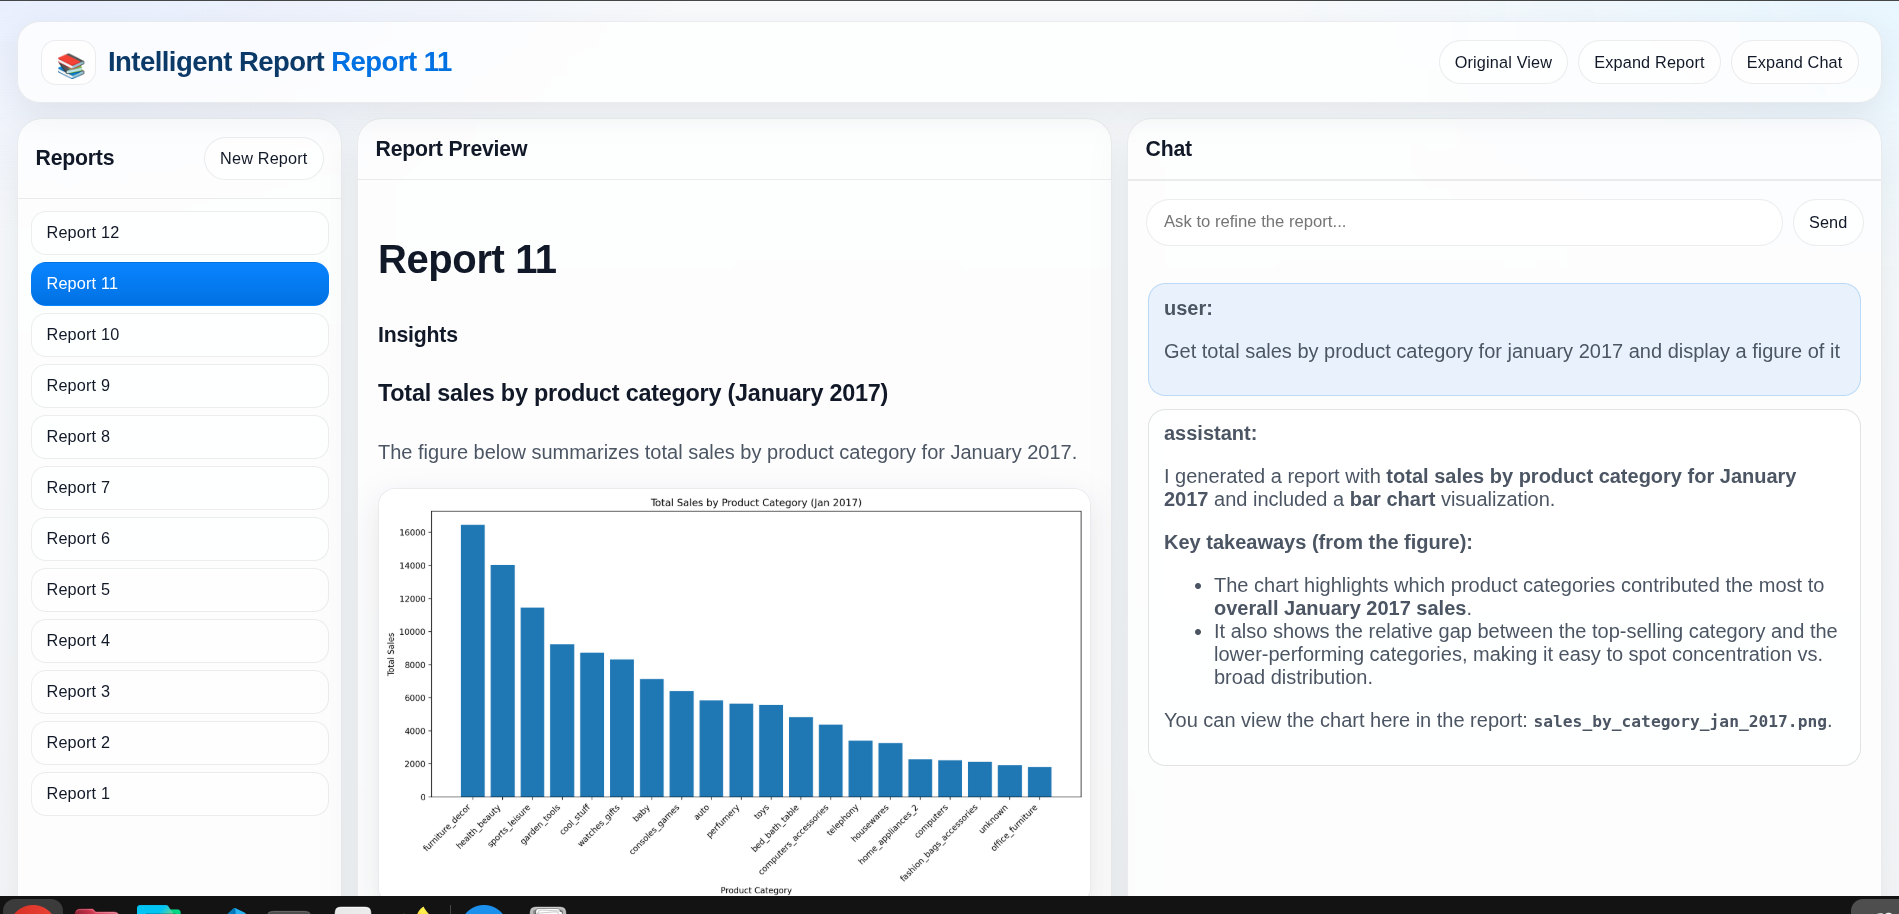
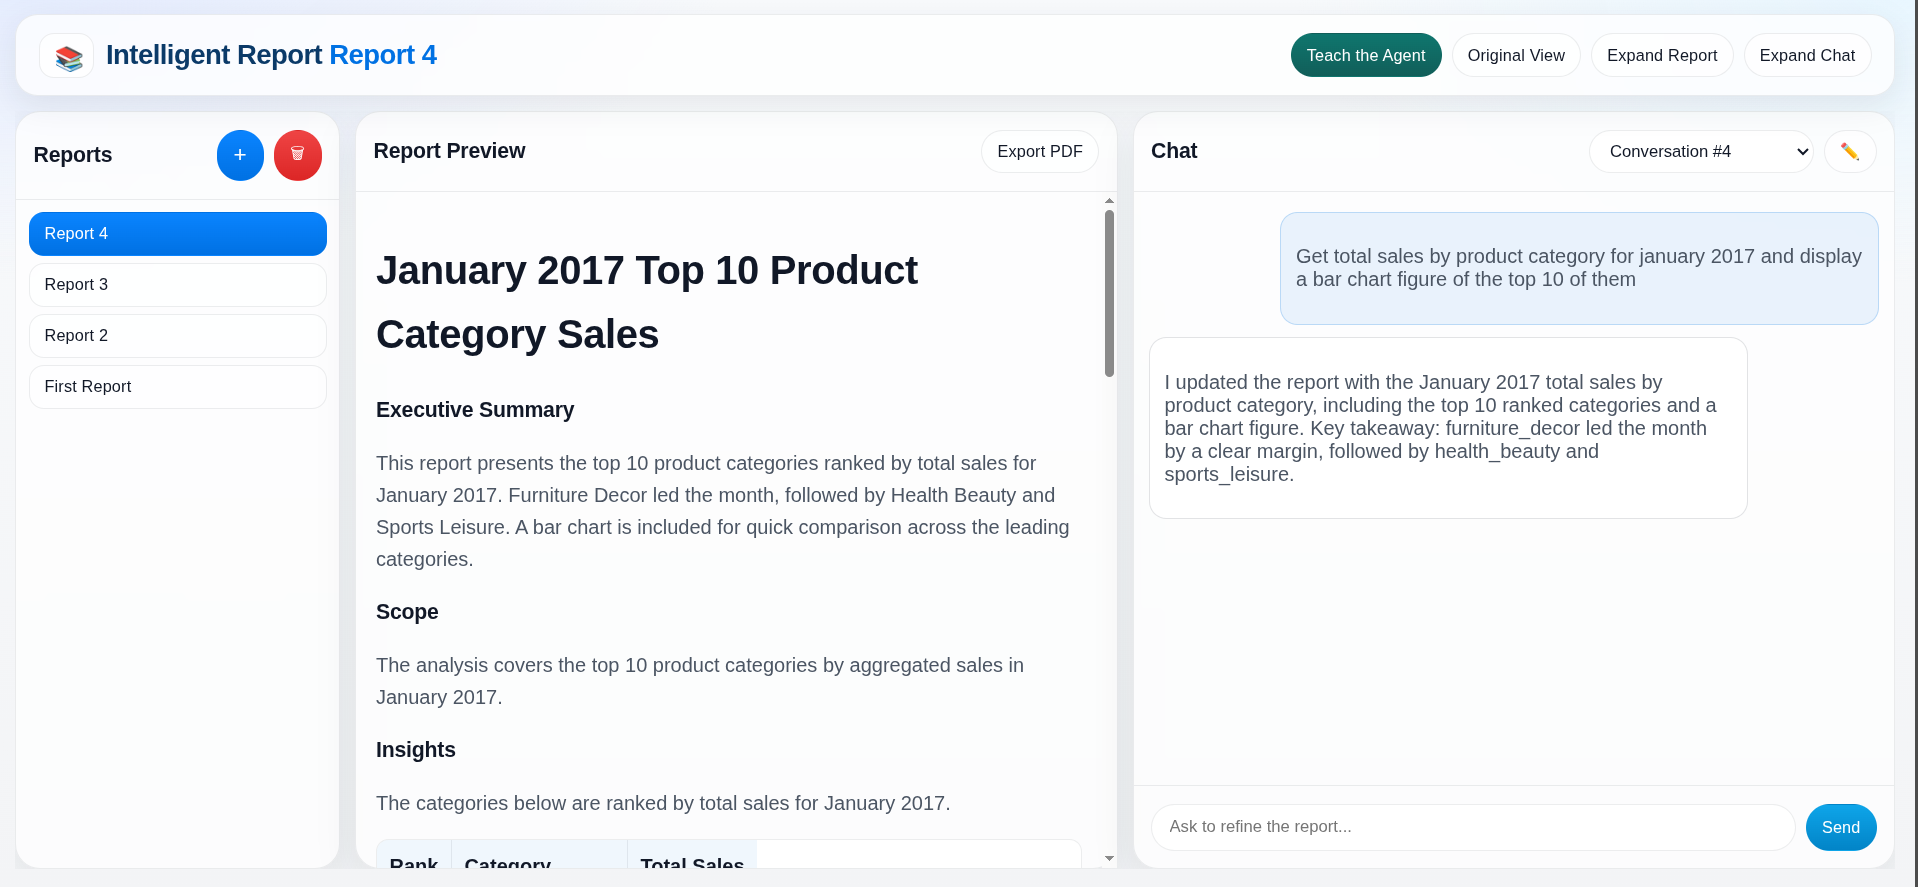
update docs

diff --git a/docs/agents.md b/docs/agents.md
@@ -1,0 +1,102 @@
+# Agents Architecture
+
+This document explains the current agent architecture used by ReportingAgent.
+
+## Overview
+
+The report chat flow is orchestrated by a backend `main_agent` that coordinates:
+
+- a report-editing tool agent (`report_agent`)
+- a worker execution service (`POST /invoke`) that runs `code_executor_agent`
+
+Skills are managed by dedicated backend agents for teaching and publishing.
+
+## Agent Roles
+
+### `main_agent` (backend)
+
+- Built in `backend/app/agents/main_agent.py`
+- Model: `gpt-5.4-mini`
+- Purpose: orchestrate report responses from chat input
+- Tools:
+  - `report_agent`: edits `report.md` and workspace files safely
+  - `call_artifact_worker(content)`: calls worker `POST /invoke` with `{query, report_id}`
+
+### `report_agent` (backend tool-agent)
+
+- Built in `backend/app/agents/report_agent.py`
+- Model: `gpt-5.4-mini`
+- Purpose: deterministic report/workspace editing for one report workspace
+- Key tools:
+  - `read_report`, `update_report`, `update_report_section`
+  - `list_files`, `read_file`, `replace_in_file`
+  - `build_report_file_url` (canonical `/reports/{id}/files/<path>` links)
+- Safety:
+  - all file paths resolve inside `report_<id>` workspace
+  - binary file reads are blocked (images can be uploaded for reasoning)
+  - image markdown paths are normalized to backend file URLs
+
+### `code_executor_agent` (worker)
+
+- Built in `worker/app/agents/code_executor_agent.py`
+- Model: `gpt-5.4-mini`
+- Triggered by worker `POST /invoke`
+- Purpose: inspect DB/files, write and run Python, generate report artifacts
+- Key tools:
+  - workspace file ops: `write_file`, `read_file`, `replace_in_file`, `list_files`
+  - execution: `run_python`
+  - PostgreSQL inspection: `get_database_schema`, `get_unique_values`, `get_column_stats`, `preview_table`
+  - shared skills: `search_agent_skills`, `read_agent_skill`
+- Output contract (`CodeAgentResult`):
+  - `status = needs_more_info` with clarification question + missing info list
+  - `status = ready_to_execute` with summary
+
+### Skills Agents (backend)
+
+- `skill_chat_agent` (`gpt-5.4-nano`): conversational skill teaching turns
+- `skill_agent` (`gpt-5.4-nano`): publishes skill as JSON payload with:
+  - `skill_name`
+  - `description`
+  - `skill_markdown`
+
+## End-to-End Report Message Flow
+
+For `POST /conversations/{conversation_id}/messages`:
+
+1. Backend validates input and loads message history from Postgres.
+2. Backend ensures `report.md` exists in `/data/shared/jobs/report_<id>/`.
+3. Backend runs `main_agent` with recent conversation context.
+4. `main_agent` may call worker `/invoke` for analysis/artifact generation.
+5. `main_agent` uses `report_agent` to write/update `report.md` and references.
+6. Backend stores user + assistant messages in `messages`.
+7. Frontend refreshes chat and report markdown preview.
+
+## Service Boundaries
+
+- Backend (`:8000`):
+  - user-facing REST API
+  - orchestration and skill lifecycle
+  - report markdown/PDF/file serving
+- Worker (`:5000`):
+  - internal execution endpoint (`/invoke`)
+  - code/data/artifact generation in report workspace
+
+## Storage Model
+
+- Report workspace:
+  - `/data/shared/jobs/report_<report_id>/report.md`
+  - generated artifacts (commonly under `figures/`)
+- Shared skills:
+  - `/data/shared/skills/<skill_slug>/SKILL.md`
+- Postgres state:
+  - reports/conversations/messages
+  - skills/skill_conversations/skill_messages
+
+## Models In Use
+
+- `main_agent`: `gpt-5.4-mini`
+- `report_agent`: `gpt-5.4-mini`
+- `code_executor_agent`: `gpt-5.4-mini`
+- `skill_chat_agent`: `gpt-5.4-nano`
+- `skill_agent`: `gpt-5.4-nano`
+

diff --git a/README.md b/README.md
@@ -26,11 +26,15 @@ ReportingAgent is an agentic reporting app that turns chat requests into iterati
 ```text
 Frontend (React + Vite)
   -> Backend API (FastAPI)
-      -> Main backend agent
-      -> Skill chat + skill publish agents
+      -> Report chat endpoint runs main_agent (gpt-5.4-mini)
+          -> tool: call worker /invoke with {query, report_id}
+          -> tool: report_agent (workspace-safe report/file editing)
+      -> Skills endpoints run:
+          -> skill_chat_agent (gpt-5.4-nano) for teaching conversations
+          -> skill_agent (gpt-5.4-nano) for publish JSON output
       -> Worker API (/invoke)
-          -> Code planner + code executor
-          -> Shared skill search/read tools
+          -> code_executor_agent (gpt-5.4-mini, structured output)
+          -> tools: workspace file ops, run_python, DB inspection, shared skill search/read
 
 Postgres stores app state (reports, conversations, messages, skills, skill_conversations, skill_messages)
 Shared volume stores report files under /data/shared/jobs/report_<id>/
@@ -40,9 +44,9 @@ Shared volume stores skills under /data/shared/skills/<skill_slug>/SKILL.md
 ## Repository Layout 📁
 
 ```text
-backend/                 FastAPI API + backend agents
+backend/                 FastAPI API + main/report/skill agents
 frontend/                React/Vite UI
-worker/                  FastAPI worker + planner/executor agents
+worker/                  FastAPI worker + code executor agent
 infra/postgres/          SQL schemas (app + Olist)
 docs/                    Feature docs (skills, reports)
 scripts/                 Kaggle download/load helpers
@@ -114,6 +118,10 @@ Run `make help` for full list.
 - `GET /reports/{report_id}/pdf`
 - `GET /reports/{report_id}/files/{file_path}`
 
+Notes:
+- Creating a report also creates its first conversation row.
+- Sending a report chat message runs the backend main agent, which can call worker `/invoke` and then update `report.md`.
+
 ### Skills
 
 - `GET /skills`
@@ -126,6 +134,10 @@ Run `make help` for full list.
 - `POST /skill-conversations/{skill_conversation_id}/messages`
 - `POST /skills/{skill_id}/publish`
 
+Notes:
+- Creating a skill also creates its first `skill_conversation`.
+- `GET /skills/{skill_id}/markdown` returns 404 until the skill has been published at least once.
+
 ### Compatibility
 
 - `POST /agent/teach` (legacy quick-save)
@@ -135,6 +147,10 @@ Run `make help` for full list.
 
 - `GET /health` (backend)
 - `GET /health` (worker)
+
+### Internal Worker
+
+- `POST /invoke` (called by backend main agent)
 
 ## Storage & Lifecycle 🗂
 
@@ -149,6 +165,7 @@ Run `make help` for full list.
 - One report can have multiple conversations.
 - Deleting a report cascades to conversations/messages.
 - Workspace folder cleanup is best-effort.
+- Worker-generated artifacts are typically placed in the same workspace (for example `figures/`).
 
 ### Skills (Shared)
 
@@ -159,7 +176,7 @@ Run `make help` for full list.
 - `/data/shared` is backed by Docker volume `shared_data`.
 - `SKILL.md` requires YAML frontmatter (`name`, `description`) and markdown instructions.
 - Current implementation is intentionally basic (single markdown file per skill).
-- Current skill search is simple; a RAG-based retrieval layer is a likely next step.
+- Worker skill retrieval is keyword/frontmatter based (`search_agent_skills` + `read_agent_skill`).
 
 ## Optional: Load Olist Dataset 📊
 
@@ -177,6 +194,7 @@ make kaggle-setup
 
 ## Additional Docs 📚
 
+- [docs/agents.md](docs/agents.md)
 - [docs/reports.md](docs/reports.md)
 - [docs/skills.md](docs/skills.md)
 

diff --git a/docs/skills.md b/docs/skills.md
@@ -12,8 +12,12 @@ Skills are the app's reusable behavior feature: they let users teach domain/proc
 
 Key design decision:
 
-- Skills are intended for worker agents (planner/executor).
-- Main interface agent does not directly consume shared skills.
+- Skills are intended for worker agents (code executor flow).
+- Main interface agent does not directly consume shared skills; the worker code executor does.
+
+Current agent roles:
+- `skill_chat_agent` (`gpt-5.4-nano`) powers skill teaching chat turns.
+- `skill_agent` (`gpt-5.4-nano`) generates publish payload JSON (`skill_name`, `description`, `skill_markdown`).
 
 ## Storage
 
@@ -33,6 +37,8 @@ Current implementation writes only one file:
 <skill_slug>/
   SKILL.md
 ```
+
+If a generated skill directory already exists, publish/create uses a timestamp suffix (for example `my-skill-20260415_102000`) to avoid collisions.
 
 Future extension may include:
 
@@ -78,6 +84,10 @@ Relations:
 - `skills -> skill_conversations` (`ON DELETE CASCADE`)
 - `skill_conversations -> skill_messages` (`ON DELETE CASCADE`)
 
+Implementation details:
+- `POST /skills` creates a skill row with empty description and also creates one initial `skill_conversation`.
+- Skill markdown path (`skill_md_path`) remains empty until publish.
+
 ## Backend API
 
 Primary endpoints:
@@ -112,6 +122,10 @@ Top-right controls:
 - `🗑` delete selected skill
 - `Show Skills` / `Hide Skills`
 
+Behavior notes:
+- Skill preview panel shows "not published yet" until `POST /skills/{skill_id}/publish` succeeds.
+- Publish uses the selected skill conversation (or latest if none provided in API payload).
+
 ## Publish Behavior
 
 Publishing a skill:
@@ -124,10 +138,23 @@ Publishing a skill:
 3. Writes `SKILL.md` into shared volume.
 4. Updates `skills` table metadata and `skill_md_path`.
 
+The publish endpoint updates:
+- `name`
+- `description`
+- `slug`
+- `skill_md_path`
+- `updated_at`
+
+## Worker Consumption
+
+Worker `code_executor_agent` can use:
+- `search_agent_skills(query)` to find skills by keyword in id/frontmatter summary.
+- `read_agent_skill(skill_name)` to load a selected shared skill.
+
+Current retrieval is simple keyword matching over skill identifiers and frontmatter-derived summaries.
+
 ## Current Limitations
 
 - Implementation is intentionally basic: only `SKILL.md` is generated.
 - No automatic generation of code examples or multi-file skill package content yet.
-- Skill search is currently simplistic; a RAG-based retrieval layer likely makes more sense in future.
-
-This is a good candidate for a future pull request.
+- Skill retrieval is currently simplistic keyword matching (no semantic retrieval/RAG yet).

diff --git a/docs/reports.md b/docs/reports.md
@@ -32,6 +32,9 @@ Relations:
 
 This allows multiple conversations for a single report workspace.
 
+Implementation detail:
+- Creating a report inserts one initial conversation automatically.
+
 ## Workspace Mapping
 
 Each report has a folder in shared storage:
@@ -43,6 +46,29 @@ Each report has a folder in shared storage:
 ```
 
 `report.md` is served to the preview UI.
+
+Initial content:
+- New reports get a starter markdown with title, report id, and creation timestamp.
+
+## Agentic Flow
+
+When sending `POST /conversations/{conversation_id}/messages`:
+
+1. Backend loads conversation history and ensures `report.md` exists.
+2. Backend runs `main_agent` (model `gpt-5.4-mini`).
+3. `main_agent` can use:
+   - `call_artifact_worker` -> `POST /invoke` on worker with `{query, report_id}`.
+   - `report_agent` -> workspace-safe tools to read/update `report.md` and files.
+4. Worker `/invoke` runs `code_executor_agent` (model `gpt-5.4-mini`) with tools for:
+   - file operations in `report_<id>/`
+   - Python execution (`run_python`)
+   - PostgreSQL inspection helpers
+   - shared skill search/read
+5. Backend stores user and assistant messages in `messages`.
+
+Worker result contract:
+- `needs_more_info`: backend receives a clarification question with missing info.
+- `ready_to_execute`: backend receives a short execution summary.
 
 ## Backend API
 
